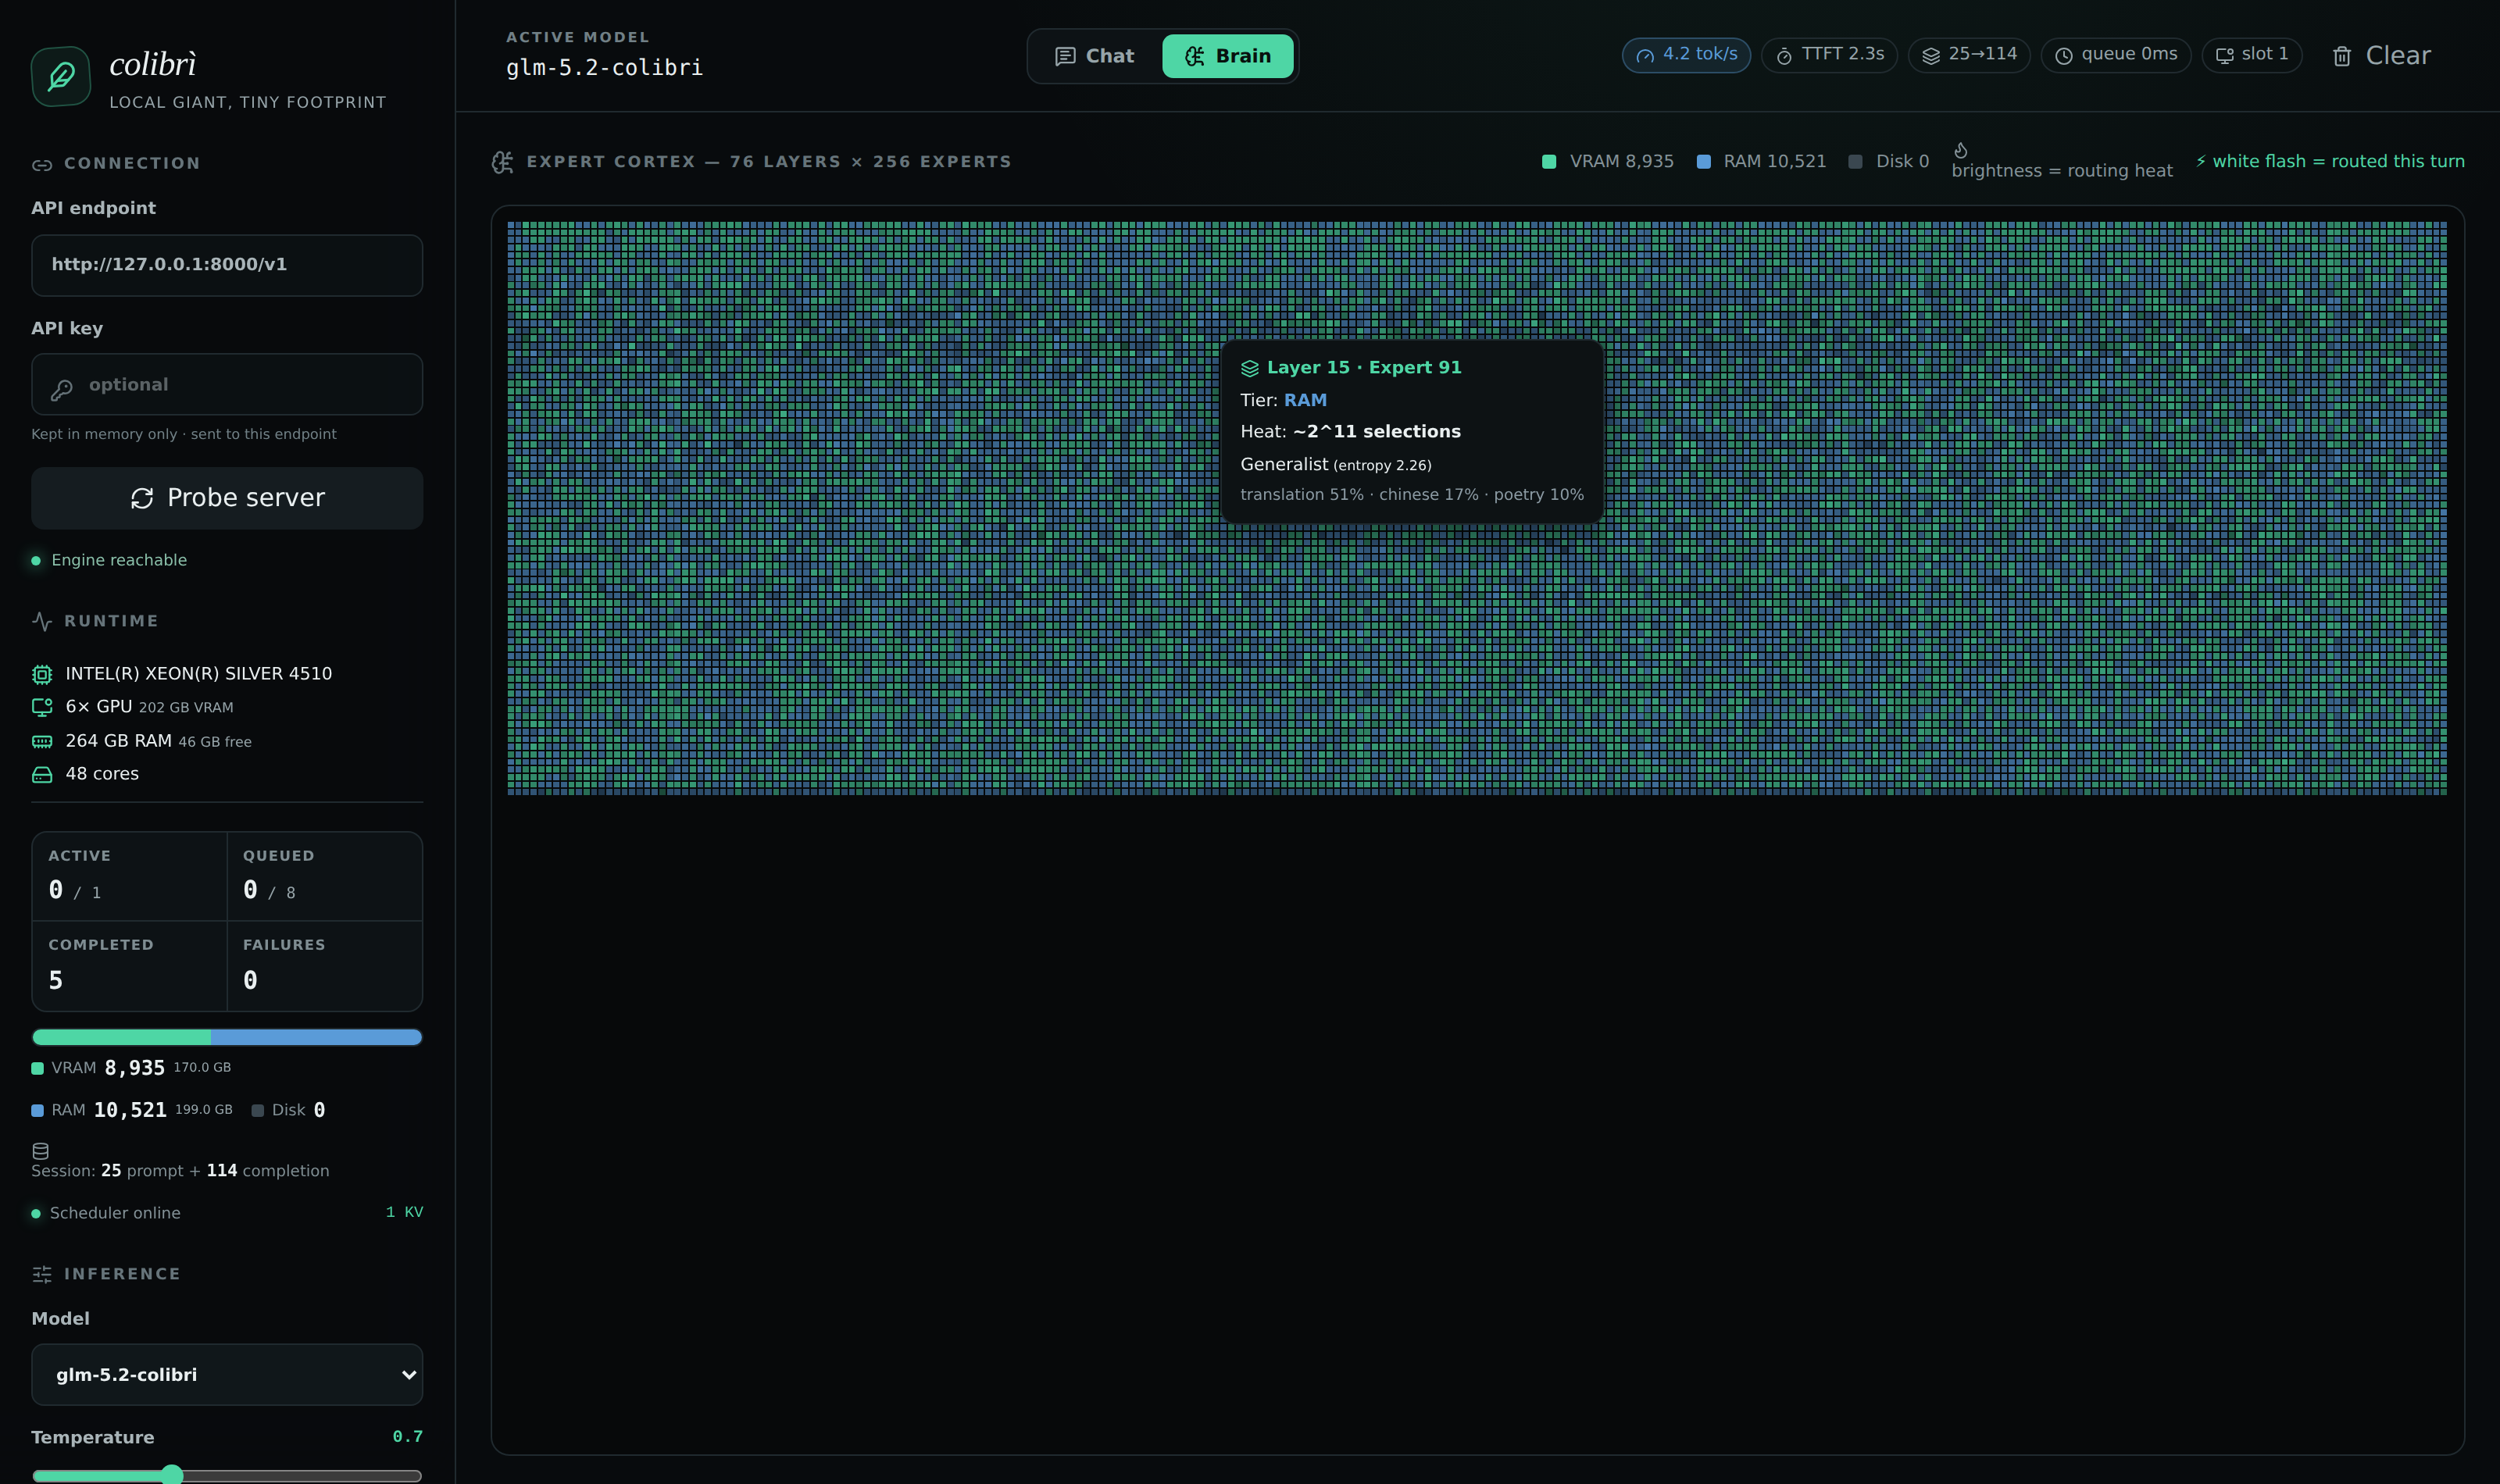
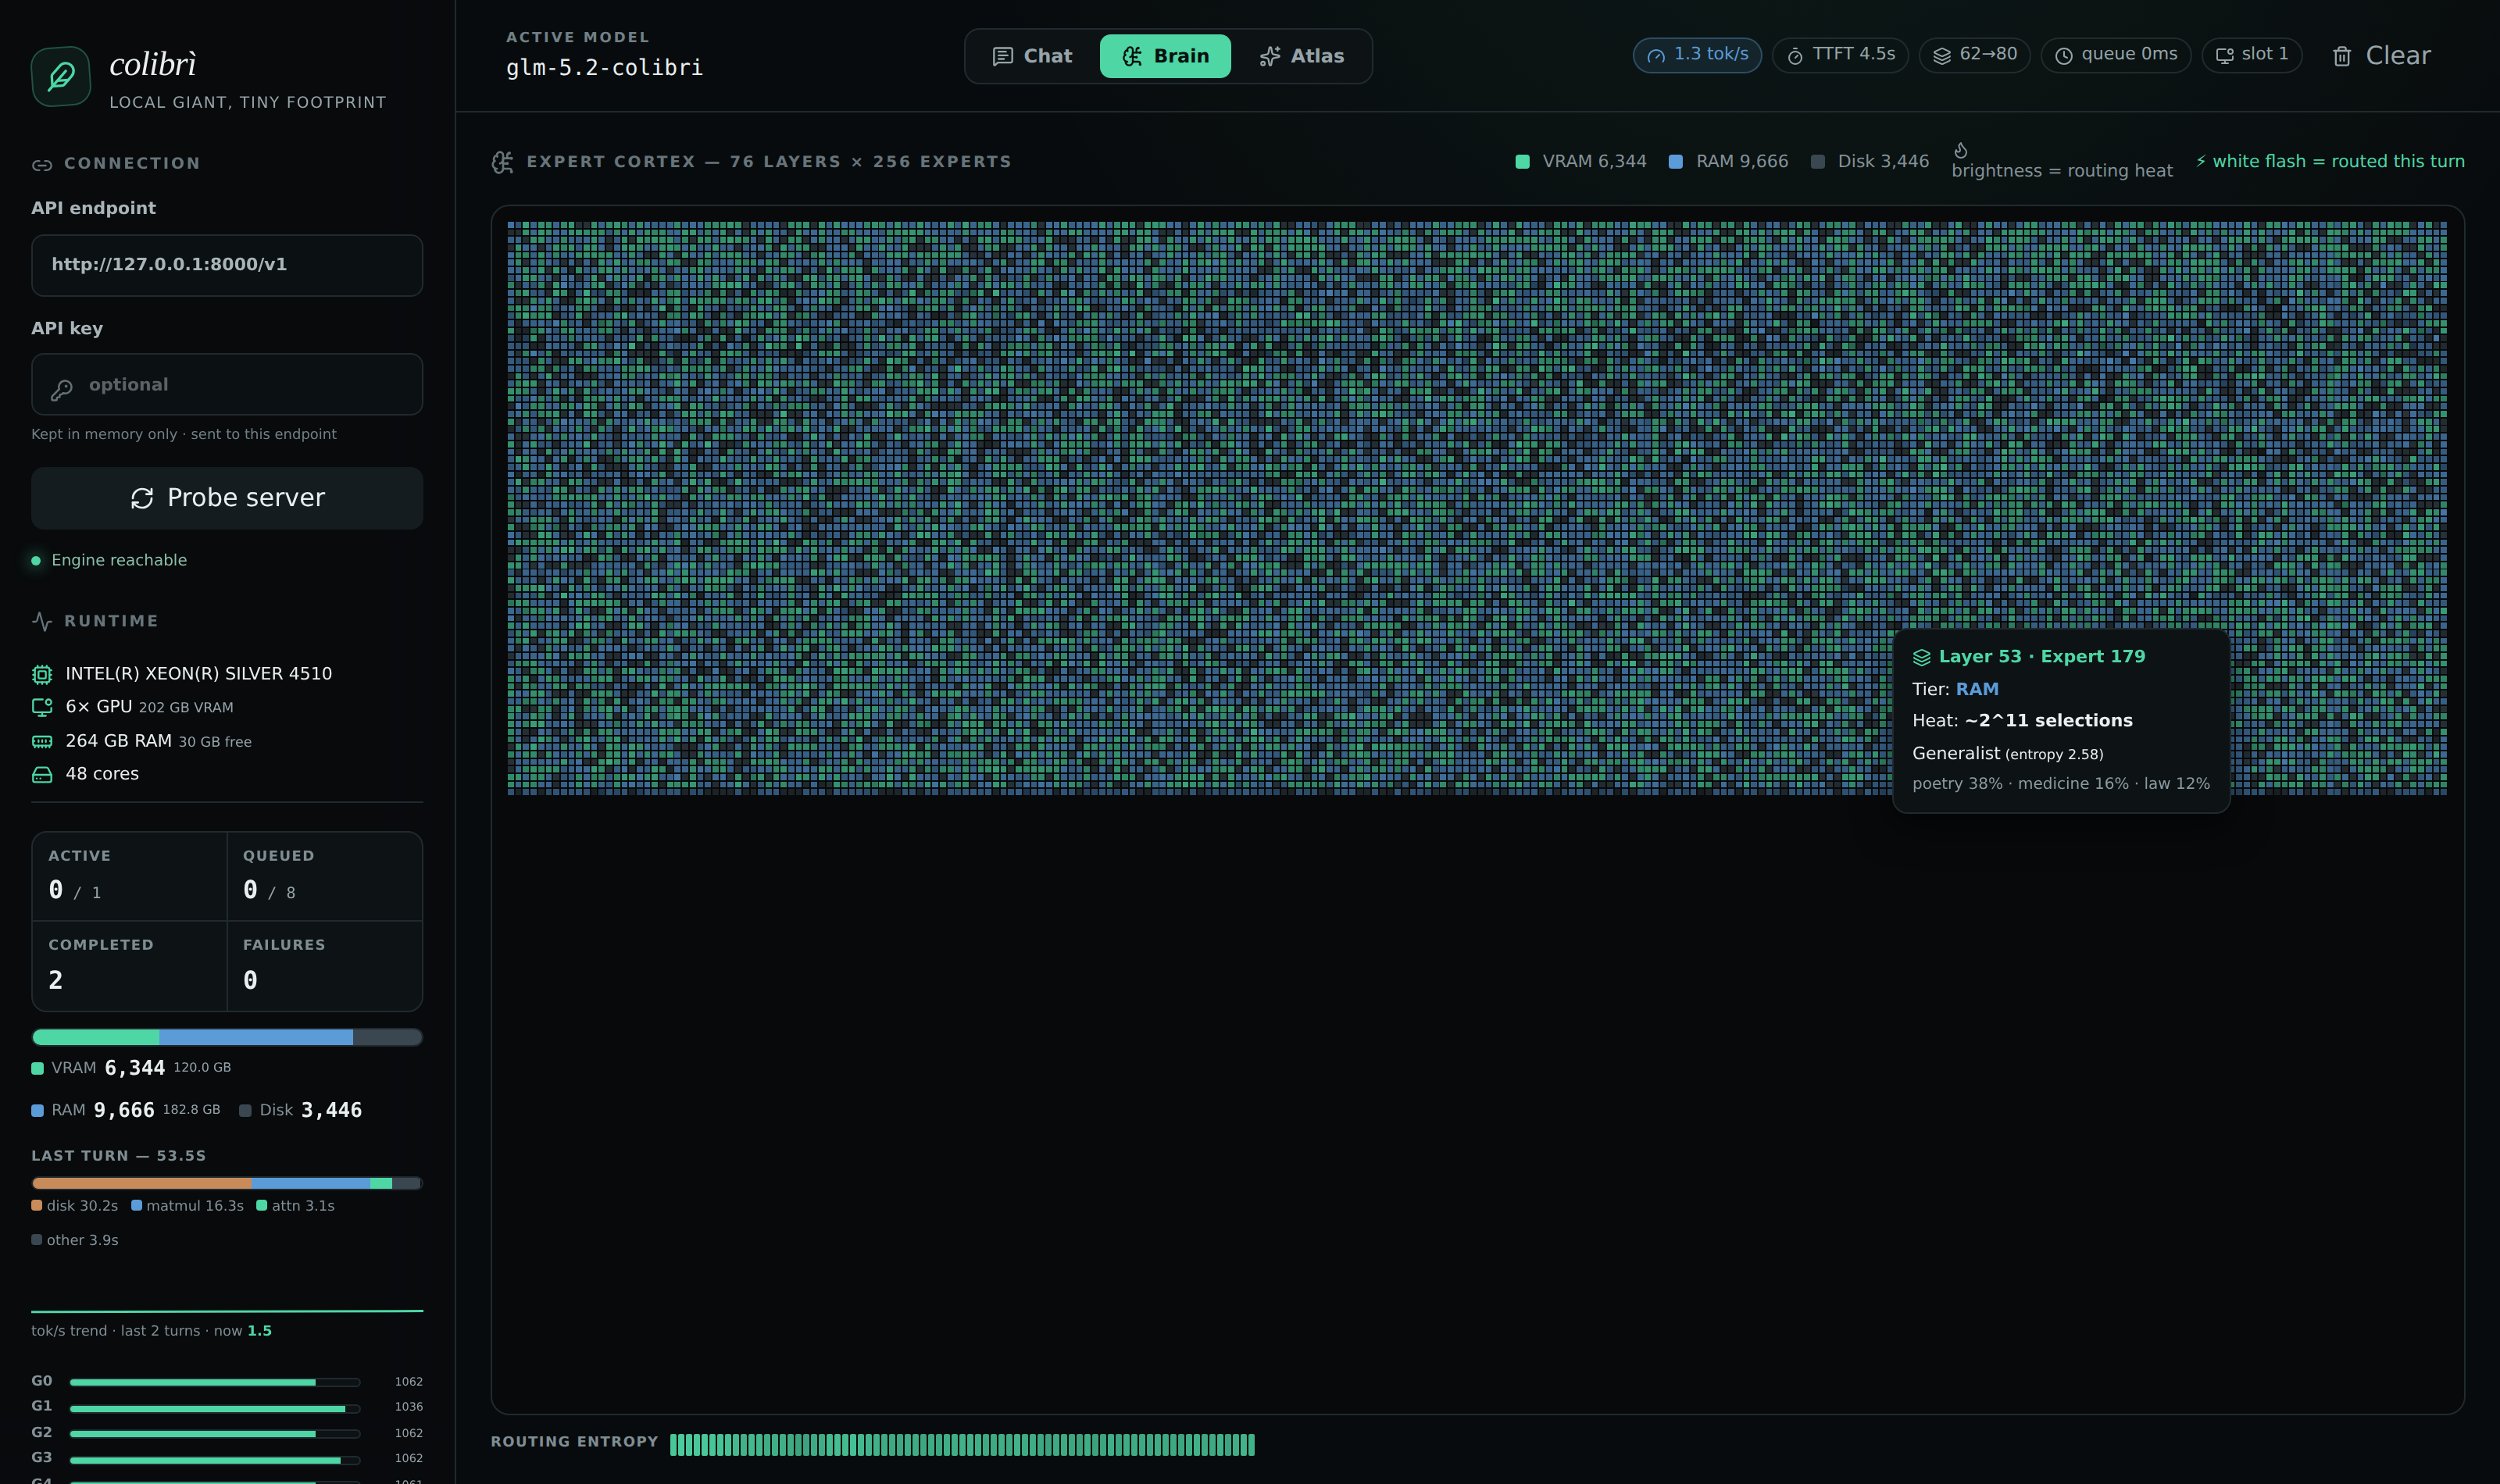
docs/media: refreshed dashboard shots (full-residency 4 tok/s, disk 0), new Atlas galaxy, phone + sidebar shots

diff --git a/README.md b/README.md
@@ -22,8 +22,9 @@ $ ./coli chat
 <p align="center">
   <img src="docs/media/colibri-dashboard.png" width="900" alt="colibrì web dashboard — live metrics, hardware panel, expert tiers">
 </p>
-<p align="center"><em>The web dashboard (<code>./coli web</code>): a 744B model answering on 6× RTX 5090 —
-live token metrics, the hardware panel, and the VRAM/RAM/disk expert tiers.</em></p>
+<p align="center"><em>The web dashboard (<code>./coli web</code>): a 744B model at <strong>4 tok/s, TTFT 1.6 s, disk 0</strong> —
+full expert residency on 6× RTX 5090, with live token metrics, the per-turn time breakdown,
+the VRAM/RAM/disk tier bar and the live mini-brain in the corner.</em></p>
 
 <p align="center">
   <img src="docs/media/colibri-brain.png" width="900" alt="the Brain page — 19,456 experts as a live cortex">
@@ -31,6 +32,13 @@ live token metrics, the hardware panel, and the VRAM/RAM/disk expert tiers.</em>
 <p align="center"><em>The <strong>Brain</strong> page: all 19,456 experts as a living cortex — colour is the storage tier,
 brightness is routing heat, and every expert routed in a turn flashes white. Hovering shows the expert's
 <a href="https://github.com/JustVugg/colibri/issues/175">measured topic affinity</a>.</em></p>
+
+<p align="center">
+  <img src="docs/media/colibri-atlas.png" width="900" alt="the Atlas page — the measured expert atlas as a 3-D galaxy">
+</p>
+<p align="center"><em>The <strong>Atlas</strong> page: the <a href="https://github.com/JustVugg/colibri/issues/175">measured expert atlas</a>
+as a 3-D galaxy — 13,260 characterised experts, 1,041 replicated specialists clustering by topic
+(poetry, law, Chinese, SQL…). Position is measured routing affinity, not a learned embedding. Drag to spin.</em></p>
 
 ## The idea
 

diff --git a/docs/api.md b/docs/api.md
@@ -98,3 +98,13 @@ The dashboard talks to the engine over a small line protocol and plain JSON
 endpoints — nothing heavier than the engine itself. `web/` is a pure OpenAI-API
 client (React + TypeScript) and also works against any other compatible
 endpoint; the terminal `coli chat` remains the first-class interface.
+
+The layout is responsive down to phone widths, and the sidebar carries the full
+telemetry stack — hardware, scheduler, tier bar, per-turn time breakdown, tok/s
+trend and per-GPU expert counts:
+
+<p align="center">
+  <img src="media/colibri-mobile.png" width="270" alt="the dashboard on a phone-sized viewport">
+  &nbsp;&nbsp;
+  <img src="media/colibri-metrics.png" width="300" alt="the telemetry sidebar">
+</p>